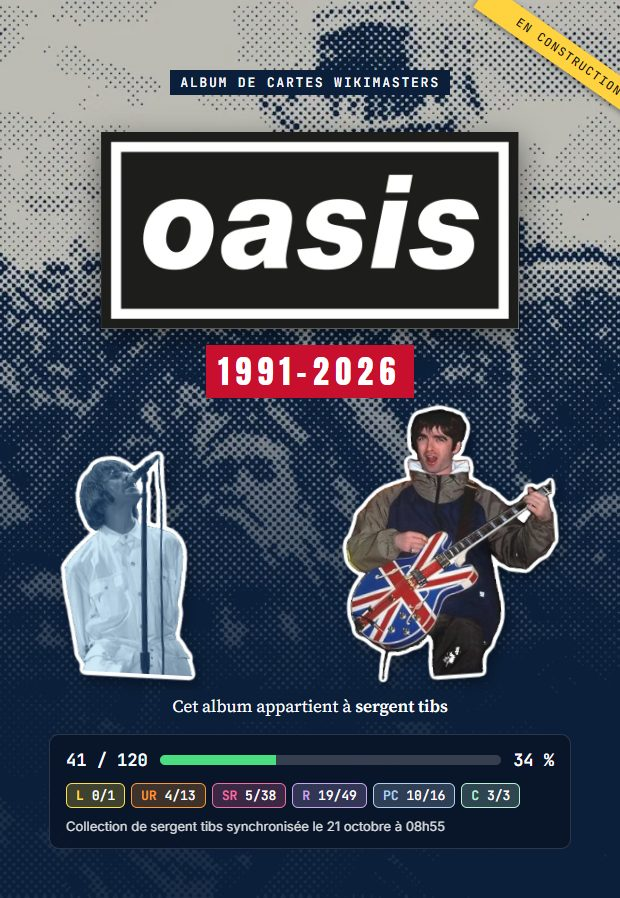
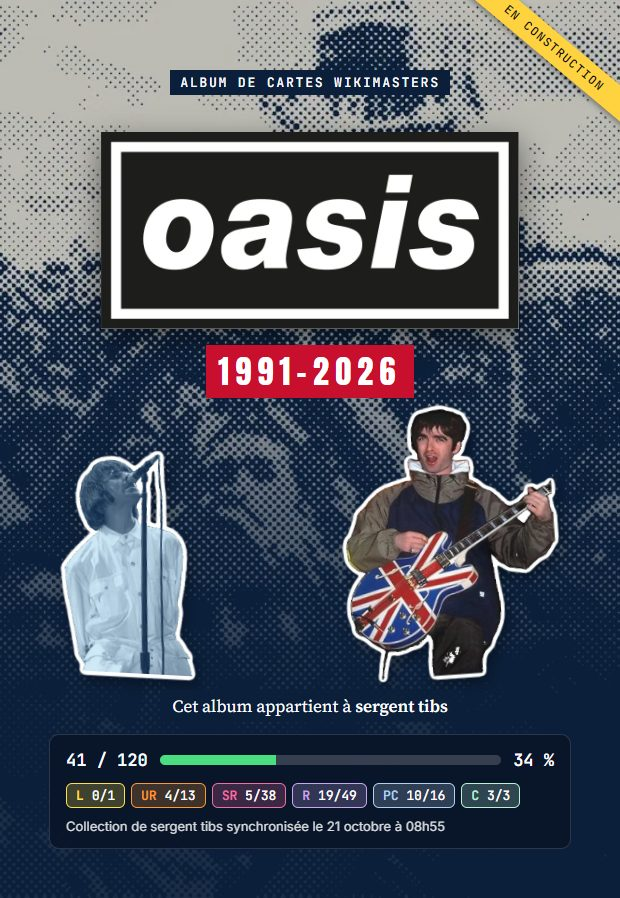
Oasis: work in progress ribbon fully visible

Changed region(s): [[0.7661, 0.0, 1.0, 0.1559]]

diff --git a/oasis/index.html b/oasis/index.html
@@ -311,14 +311,14 @@
   .spread, .cover, .checklist { scroll-margin-top:64px; }
   .spread { margin-bottom:22px; }
   .cover .evo { margin:4px 0 0; font:400 13px "Inter", sans-serif; opacity:.85; }
-  .cover .wip { position:absolute !important; z-index:3; top:3.5%; right:-9%; padding:6px 44px; background:#ffd23f; color:#111; transform:rotate(35deg);
+  .cover .wip { position:absolute !important; z-index:3; top:34px; right:-74px; width:280px; margin:0; padding:6px 0; text-align:center; background:#ffd23f; color:#111; transform:rotate(40deg);
     font:700 12px "JetBrains Mono", monospace; letter-spacing:.1em; text-transform:uppercase; box-shadow:0 2px 6px rgba(0,0,0,.4); }
   .want { margin-top:10px; } .want h3 { display:inline-block; margin:0 10px 8px 0; font:400 22px "Anton", sans-serif; text-transform:uppercase; }
   .want button { font:600 12px "Inter", sans-serif; padding:5px 12px; border:1px solid #141414; border-radius:999px; background:#fff; cursor:pointer; transition:background .15s ease; }
   .want button:hover { background:#ece6d8; } .want button:active { background:#ddd5c3; } .want button:focus-visible { outline:2px solid #141414; outline-offset:2px; }
   .want pre { margin:0; padding:12px; max-height:340px; overflow:auto; background:#fffaf0; border:1px solid rgba(0,0,0,.2); font:13px/1.5 "Courier Prime", monospace; white-space:pre-wrap; }
   @media (max-width: 760px) {
-    .cover .wip { position:static !important; transform:none; margin:10px 0 0; padding:3px 12px; font-size:11px; }
+    .cover .wip { position:static !important; transform:none; width:auto; margin:10px 0 0; padding:3px 12px; font-size:11px; }
     .th-end .right .photo { height:360px; } .th-end h2.back { margin-top:250px; text-shadow:0 2px 14px #000, 0 0 4px #000; }
     .duo2025 { flex-direction:column; gap:18px; } .duo2025 .ph { width:100%; } .duo2025 .a2 { margin-top:0; }
   }
